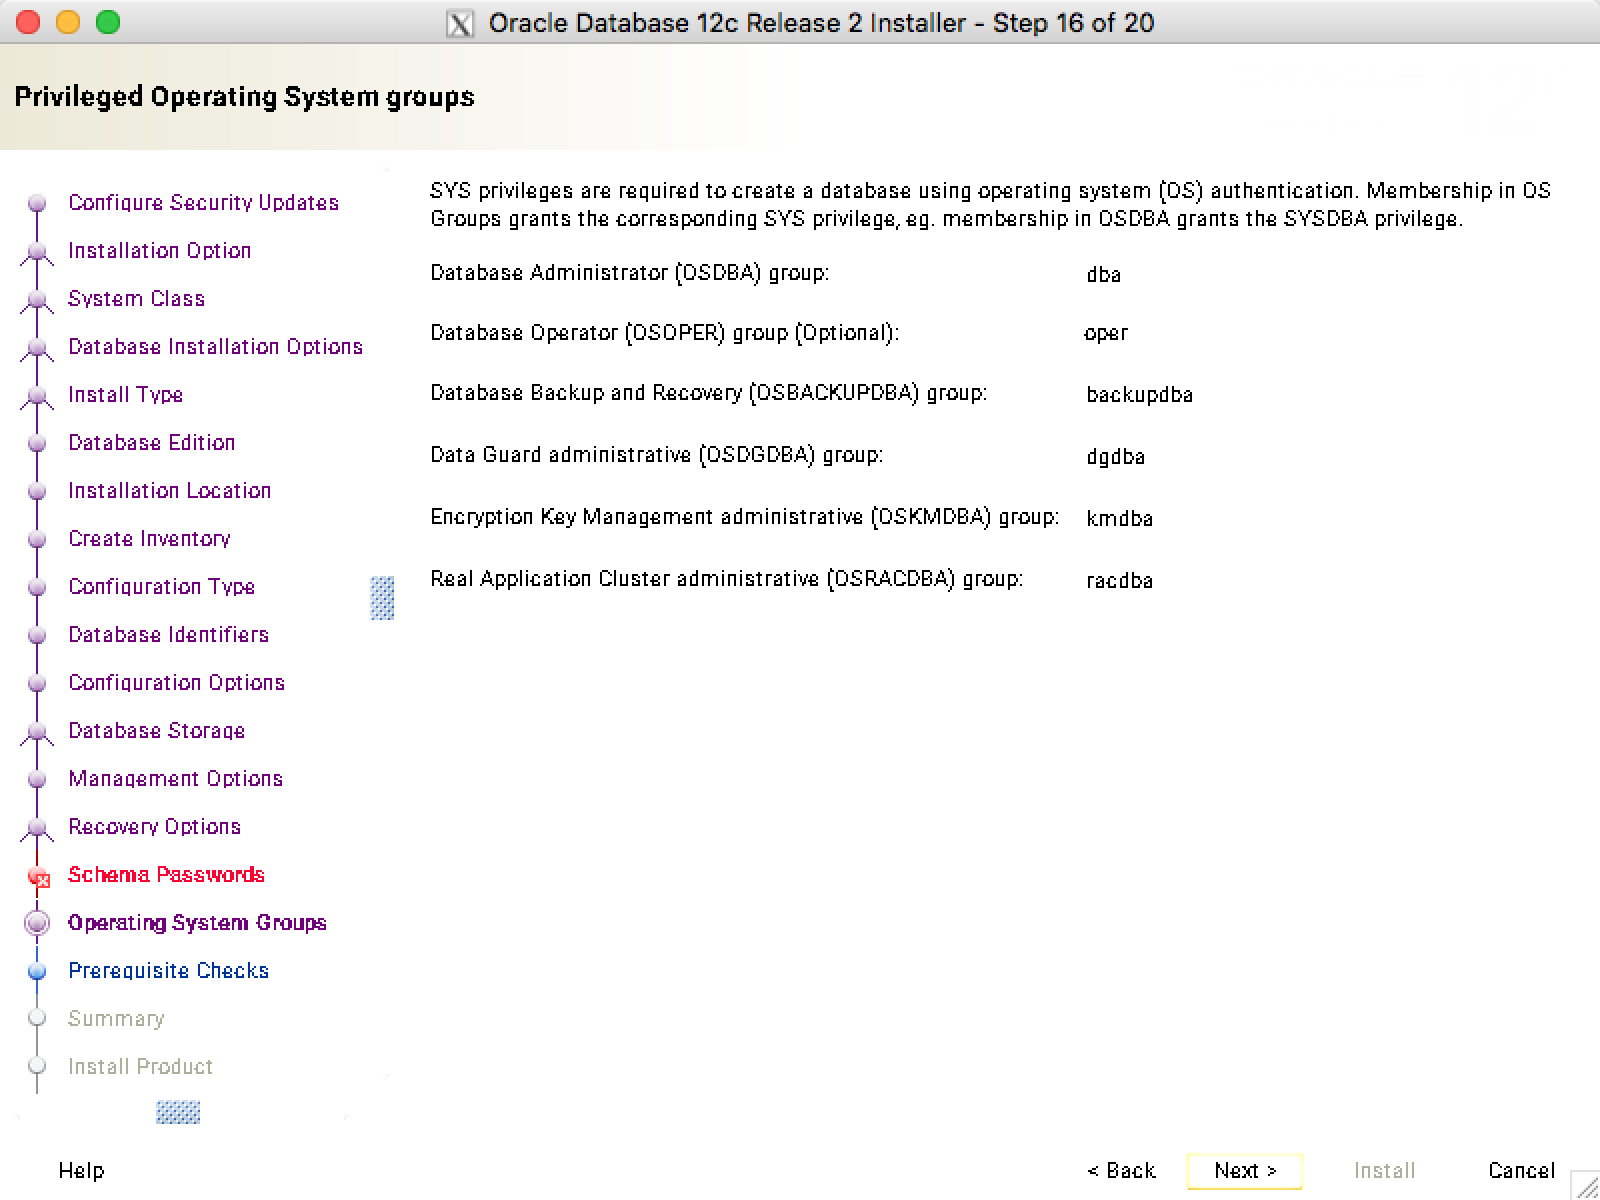
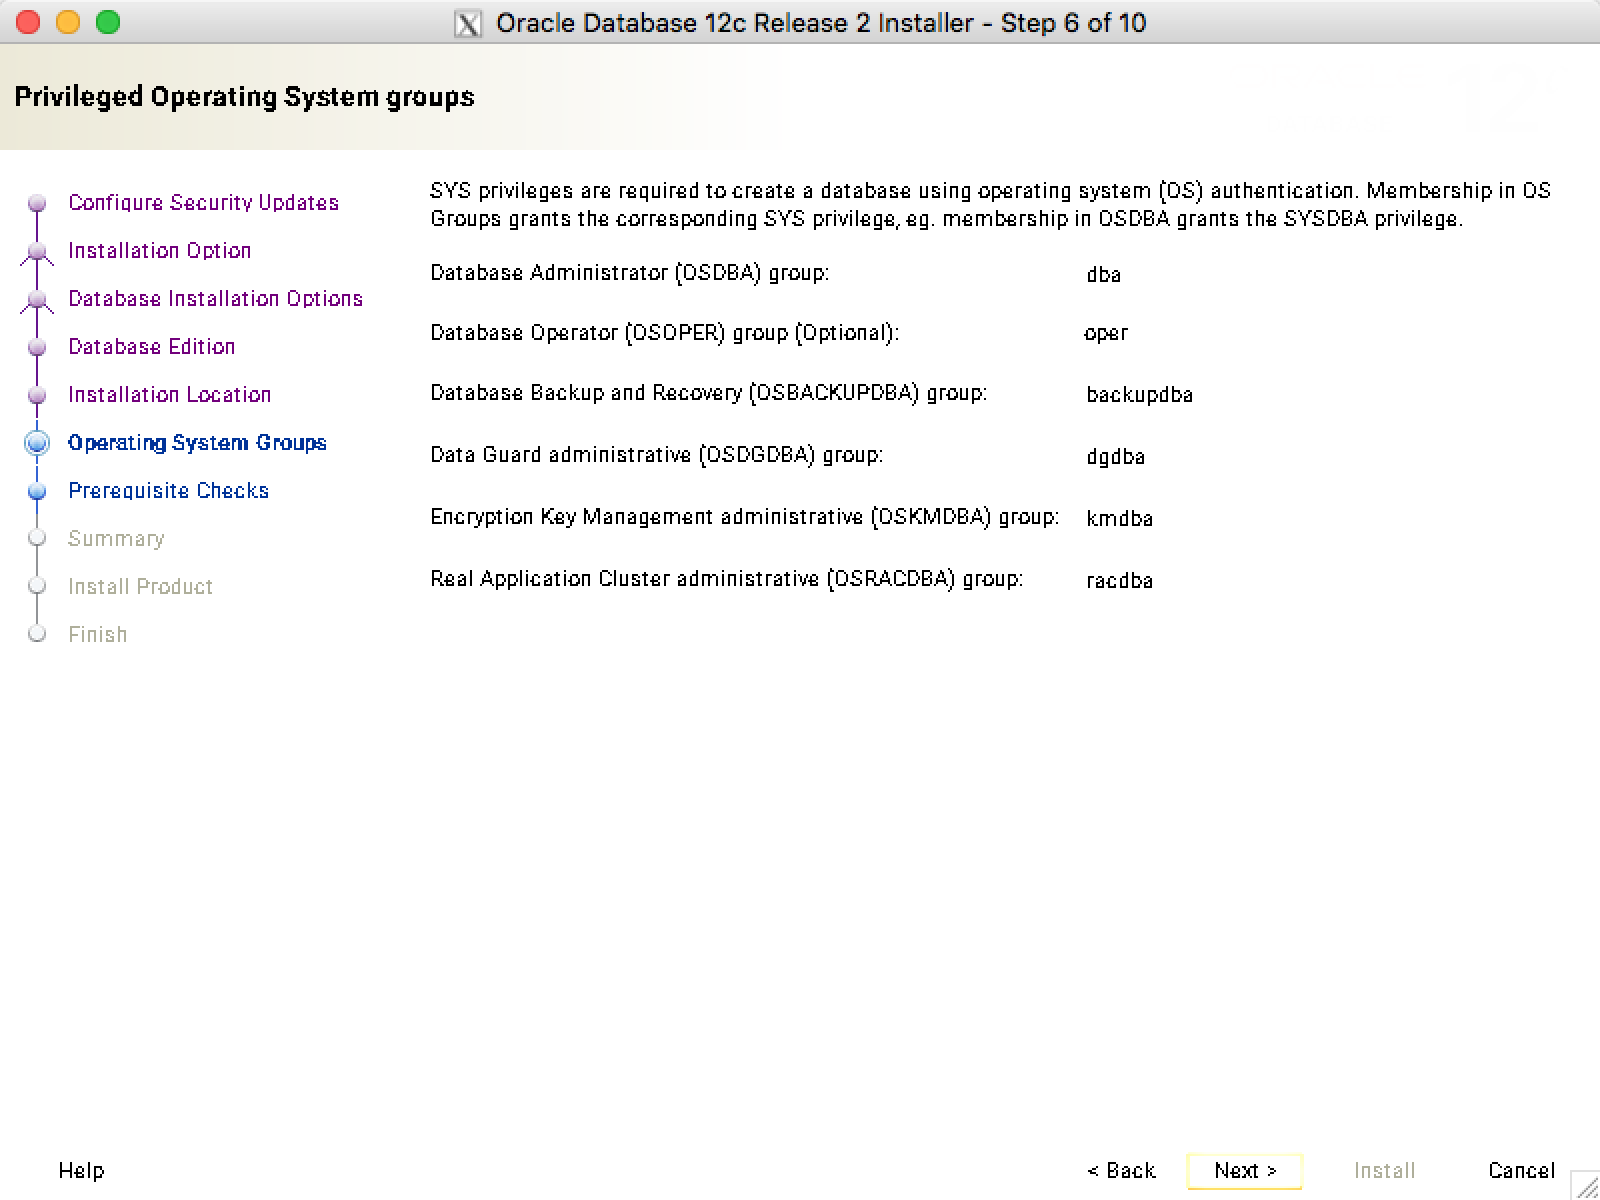
Oracle 12c installation note finished

diff --git a/source/_posts/install-oracle-12c-on-suse-linux.md b/source/_posts/install-oracle-12c-on-suse-linux.md
@@ -10,6 +10,8 @@ categories:
 ---
 本文记录根据[Oracle官方安装文档](https://docs.oracle.com/en/database/oracle/oracle-database/12.2/ladbi/index.html)，在`openSuSE Leap 15.0`上安装`Oracle Database 12c`(以下简称`Oracle 12c`)的过程。
 
+本文内容目前仅仅是一个大致的安装步骤的介绍，可能会在将来持续补充完善。
+
 <!-- more -->
 
 # 安装前准备
@@ -80,6 +82,14 @@ X11UseLocalhost yes
 ```
 
 并在操作机上安装X11客户端，如`macOS`中的`xquartz`。
+
+### 配置hosts文件
+
+编辑hosts文件，写入本机的IP地址和机器名：
+
+```
+192.168.2.12    boris-x200
+```
 
 ## 检查用户和组
 
@@ -177,6 +187,8 @@ $ sudo chown -R oracle:oinstall /opt/oracle
 
 ## 开始安装
 
+以下截图因为X11客户端的问题，图片色彩会有失真，还请读者见谅。
+
 ### 准备X11转发
 
 首先启动`X11`客户端并完成连接配置。
@@ -214,137 +226,217 @@ $ ./runInstaller
 # 监控日志输出并等待安装程序启动
 ```
 
-### 配置用来接收安全通知的邮箱地址
+### 配置邮箱地址
 
-第一步中可以配置一个用于接收安全通知的邮箱地址，如果不想接收，则可以留空。
+第一步中可以配置一个用于接收安全通知的邮箱地址，如果不需要则可以留空。
 
-![Begin installation](/images/install-oracle-12c-on-suse-linux/begin-installation.png)
+![Configure security updates](/images/install-oracle-12c-on-suse-linux/configure-security-updates.png)
 
 ### 选择安装模式
 
-接下来选择安装模式。安装程序提供了三种安装模式：`创建并配置数据库`、`仅安装数据库软件`、`升级已有数据库`。因为这次是全新安装，并希望在安装过程中完成必要的配置，所以选择`创建并配置数据库`。
+安装程序提供了三种安装模式：创建并配置数据库、仅安装数据库软件、升级已有数据库。我们这里选择仅安装数据库软件，配置将放到安装结束后进行。
 
-![Install options](/images/install-oracle-12c-on-suse-linux/install-option.png)
+![Installation option](/images/install-oracle-12c-on-suse-linux/installation-option.png)
 
-### 选择安装类型
+### 选择如何安装数据库
 
-然后是选择安装类型，我们这里选择`Server class`。
+安装程序提供了三种安装类型，我们这次将安装一个单实例数据库。
 
-![System class](/images/install-oracle-12c-on-suse-linux/system-class.png)
+![Database installation options](/images/install-oracle-12c-on-suse-linux/database-installation-options.png)
 
-### 选择单机或集群
+### 选择要安装的版本
 
-本例中我们将安装一个单机实例，所以选择`Single instance database installation`。
-
-![Install option](/images/install-oracle-12c-on-suse-linux/install-option.png)
-
-### 选择安装方法
-
-这一步提供了两种安装方法：
-
-- 标准安装：完整安装数据库，并使用默认配置
-- 高级安装：提供更详细的安装配置功能
-  
-本例中将使用高级安装，以尽可能地涵盖安装过程的各个步骤。
-
-![Install type](/images/install-oracle-12c-on-suse-linux/install-type.png)
-
-### 选择数据库版本
-
-安装程序提供了两种版本可选：企业版和普通版。我们这里选择企业版。
+安装程序提供了两种版本可供安装：企业版和标准版。我们这里选择安装企业版。
 
 ![Database edition](/images/install-oracle-12c-on-suse-linux/database-edition.png)
 
-### 指定安装位置
+### 设定安装位置
 
-`Oracle base`指定到`/opt/oracle/app/oracle`；
+这一步中需要指定安装过程中的两个路径：
 
-`Software location`指定到`/opt/oracle/app/oracle/product/12.2.0/dbhome_1`
+- Oracle base: 指定数据库软件及其相关配置文件所存放的位置
+- Software location: 指定数据库软件的安装位置
 
-![Install location](/images/install-oracle-12c-on-suse-linux/install-location.png)
+此处需要确认该路径是否与`Software location`的路径匹配。
 
-### 设定Inventory directory
+![Installation location](/images/install-oracle-12c-on-suse-linux/installation-location.png)
 
-由于是首次安装，需要指定`Inventory directory`来存放安装过程中的元数据文件。我们这里指定到`/opt/oracle/app/oraInventory`，并指定`oinstall`组对该目录有写权限。
+### 配置Oracle组所对应的操作系统用户组
 
-![Inventory directory](/images/install-oracle-12c-on-suse-linux/inventory-directory.png)
-
-### 设定数据库使用场景
-
-安装程序提供了两种使用场景，分别对应两种使用情景。我们这里选择面向通常使用场景的`General Purpose / Trasaction Processing`。
-
-![Configuration type](/images/install-oracle-12c-on-suse-linux/configuration-type.png)
-
-### 设定数据库标识符
-
-这一步保持默认，不做修改。
-
-![Database identifiers](/images/install-oracle-12c-on-suse-linux/database-identifiers.png)
-
-### 配置数据库属性
-
-这一步中分别需要配置分配给数据库的内存空间、数据库所使用的字符集、以及是否安装演示数据库。
-
-内存空间分配页面中，保持默认配置不变。
-
-![Configuration options - memory](/images/install-oracle-12c-on-suse-linux/conf-opts-memory.png)
-
-字符集保持默认不变，即使用Unicode。
-
-![Configuration options - character sets](/images/install-oracle-12c-on-suse-linux/conf-opts-charset.png)
-
-是否安装演示数据库页面根据实际需要决定是否勾选。
-
-![Configuration options - sample schemas](/images/install-oracle-12c-on-suse-linux/conf-opts-sample-schema.png)
-
-### 选择数据库存储方式
-
-这一步可以选择使用文件系统来储存数据，或者使用`Oracle Automatic Storage Management`。我们这里使用本地文件系统，并指定数据目录为`/opt/oracle/app/oracle/oradata`。
-
-![Database storage](/images/install-oracle-12c-on-suse-linux/database-storage.png)
-
-### 数据库管理选项
-
-这一步中可以将该实例注册到`Oracle Enterprise Manager (EM)`来实现集中管理。因为我们没有`EM`，所以留空。如果使用`EM`，则根据页面提示填写。
-
-![Management options](/images/install-oracle-12c-on-suse-linux/management-options.png)
-
-### 恢复功能配置
-
-这里可以指定是否启用恢复功能，以及如果启用，恢复数据将存放在哪里。存放恢复数据的分区至少需要`25480MB`的空间。
-
-![Recovery options](/images/install-oracle-12c-on-suse-linux/recovery-options.png)
-
-### 密码设定
-
-这里可以选择分别为`SYS`、`SYSTEM`、`PDBADMIN`设定不同的密码，也可以共用同一套密码。同时安装程序会检测密码是否符合Oracle的建议。
-
-![Schema passwords](/images/install-oracle-12c-on-suse-linux/recovery-options.png)
-
-### 配置各个角色对应的用户组
-
-这里用于指定数据库中各个角色分别对应于操作系统中的哪些用户组。这里保持默认。
+这一步可以指定各个Oracle组所对应的操作系统用户组，检查并确认与上文所配置的组匹配。
 
 ![Operating system groups](/images/install-oracle-12c-on-suse-linux/os-groups.png)
 
-### 配置总结
+### 总览
 
-在这一步可以对上面的配置最后做一次检查。确认无误后点击`Install`开始安装。
+这一步可以检查前面每一步骤的配置是否正确。如检查无误则可继续。
 
 ![Summary](/images/install-oracle-12c-on-suse-linux/summary.png)
 
 ### 开始安装
 
-然后就是漫长的安装过程。
+接下来就是等待安装完成。点击`Details`按钮可以看到目前详细的进度。
 
-![Installing](/images/install-oracle-12c-on-suse-linux/installing.png)
+![Install product](/images/install-oracle-12c-on-suse-linux/install-product.png)
 
-点击`Details`可以在弹窗中查看安装过程的详细信息。
+期间需要用户以`root`权限执行脚本，根据弹窗给出的提示操作即可。
 
-![Details](/images/install-oracle-12c-on-suse-linux/installing-details.png)
+![Run script as root](/images/install-oracle-12c-on-suse-linux/run-script-as-root.png)
 
-在安装过程中，可能需要用户以`root`身份执行一些脚本，跟随安装程序提示执行即可。
+### 完成安装
 
-![Run scripts as root](/images/install-oracle-12c-on-suse-linux/run-scripts-as-root.png)
+安装成功结束后点击`Close`关闭安装程序。
 
-等待全部安装步骤完成后，`Oracle 12c`安装完成。
+# 首次启动配置
+
+## 开放防火墙相关端口
+
+如果需要使数据库可以接受来自外部的连接，则需要开放监听器所指定的端口。
+
+## 创建数据库
+
+使用`dbca`命令启动数据库配置向导(DBCA)，跟随向导创建数据库。
+
+### 选择向导类型
+
+`DBCA`首先会询问本次要进行什么操作，选择`Create a database`来创建一个数据库。
+
+![DBCA - database operation](/images/install-oracle-12c-on-suse-linux/dbca-database-operation.png)
+
+### 选择如何配置数据库
+
+`DBCA`提供两种配置方式：标准模式和高级模式。我们这里选择高级模式。
+
+![DBCA - creation mode](/images/install-oracle-12c-on-suse-linux/dbca-creation-mode.png)
+
+### 选择部署模式
+
+因为我们是要创建一个单机实例，所以`Database type`中选择`Oracle Single Instance Database`。
+
+在下方的模版选择中，我们使用`General Purpose or Transaction Processing`。
+
+![DBCA - deployment type](/images/install-oracle-12c-on-suse-linux/dbca-deployment-type.png)
+
+### 设定数据库标识符
+
+`Global database name`根据提示，需要遵循`name.domain`这样的格式，所以此处按照`SID.主机名`的方式填写。
+
+`SID`按需修改，本例中设定为`orcldb`。
+
+`Create as Container Database`保持不变。
+
+![DBCA - database identification](/images/install-oracle-12c-on-suse-linux/dbca-database-identification.png)
+
+### 配置存储设定
+
+这一步如有定制的需要则选择自定义配置，否则选择套用选定模版。
+
+![DBCA - storage option](/images/install-oracle-12c-on-suse-linux/dbca-storage-option.png)
+
+### 配置快速恢复设定
+
+在这一步按需配置快速恢复的设定。
+
+![DBCA - fast recovery option](/images/install-oracle-12c-on-suse-linux/dbca-fast-recovery-option.png)
+
+### 网络配置
+
+这一步中我们需要新建一个监听器来监听数据库的连接。
+
+选择`Create a new listener`来创建一个新的监听器，监听器名自行设定，端口保持`1521`不变。
+
+**注意如果需要使数据库可以接受来自外部的连接，则需要配置防火墙放行监听器的端口。**
+
+![DBCA - network configuration](/images/install-oracle-12c-on-suse-linux/dbca-network-configuration.png)
+
+### Data Vault设定
+
+这一步根据需要来设定是否开启`Database Vault`和`Label Security`。
+
+![DBCA - data vault option](/images/install-oracle-12c-on-suse-linux/dbca-data-vault-option.png)
+
+### 资源和属性配置
+
+这一步用于配置内存、字符集等等属性。
+
+#### Memory
+
+`Memory`页用来选择内存管理方案。
+
+![DBCA - configuration options - memory](/images/install-oracle-12c-on-suse-linux/dbca-configuration-options-memory.png)
+
+#### Sizing
+
+`Sizing`页用于配置 **块大小** 和 **最大并发连接数** 。这里需要注意，并发连接数一定要根据实际应用场景调整至适合的数值。本例由于是个人的测试环境，所以`300`完全满足这个场景的需要。
+
+![DBCA - configuration options - sizing](/images/install-oracle-12c-on-suse-linux/dbca-configuration-options-sizing.png)
+
+#### Character sets
+
+`Character sets`页用于配置数据库所使用的字符集。数据库字符集选择`AL32UTF8`来使用`Unicode`。
+
+`National character set`即国际化字符集，按需选择`UTF-16`或者`UTF-8`；
+
+`Default language`即默认语言，根据实际使用场景选择；
+
+`Default territory`即默认地区，同样根据实际使用场景选择。
+
+![DBCA - configuration options - character sets](/images/install-oracle-12c-on-suse-linux/dbca-configuration-options-charset.png)
+
+#### Connection mode
+
+`Connection mode`页配置该实例是以独立服务器模式运行还是以共享服务器模式运行。本例中是独立服务器模式。
+
+![DBCA - configuration options - connection mode](/images/install-oracle-12c-on-suse-linux/dbca-configuration-options-connmode.png)
+
+#### Sample schemas
+
+`Sample schemas`页可以选择是否安装演示数据库。
+
+![DBCA - configuration options - sample schemas](/images/install-oracle-12c-on-suse-linux/dbca-configuration-options-sample-schemas.png)
+
+全部完成后继续
+
+### 管理选项
+
+`Management options`中可以配置是否启用`Enterprise Manager`(EM)，以及可以注册到已有的`EM cloud control`中。
+
+![DBCA - management options](/images/install-oracle-12c-on-suse-linux/dbca-management-options.png)
+
+### 用户密码
+
+`User credentials`用于配置特权用户的密码，可以为`SYS`，`SYSTEM`，`PDBADMIN`分别指定密码，也可以为其指定统一的密码。
+
+![DBCA - user credentials](/images/install-oracle-12c-on-suse-linux/dbca-user-credentials.png)
+
+### 数据库创建配置
+
+`Creation option`中可以配置数据库创建过程中以及创建结束后的操作。
+
+- `Create database`勾选后即可创建这个数据库。如果需要在创建结束后运行SQL脚本，则可以在`Post DB creation scripts`中填写各个脚本的路径，配置程序会按照先后顺序执行。
+- `Save as a database template`勾选后，将会根据本次向导所设定的值，创建一个数据库模版。
+- `Generate database creation scripts`勾选后，将会根据本次向导所设定的值，生成一个数据库创建脚本。以后使用此脚本即可创建出一个一模一样的数据库。
+
+![DBCA - creation option](/images/install-oracle-12c-on-suse-linux/dbca-creation-option.png)
+
+### 总览
+
+这一步可以最后回顾前面步骤中所设定的值。如确认无误即可继续。
+
+### 开始创建
+
+在`Progress page`中可以看到当前数据库创建的进度。耐心等待数据库创建完成。
+
+![DBCA - progress page](/images/install-oracle-12c-on-suse-linux/dbca-progress-page.png)
+
+### 创建成功
+
+在创建成功后，在最后一页会再次显示一些关键的连接信息。
+
+![DBCA - finish](/images/install-oracle-12c-on-suse-linux/dbca-finish.png)
+
+# 检查数据库连通性
+
+打开适用于Oracle数据库的连接工具，比如`Oracle SQL Developer`，新建连接并填写连接信息，点击`Test`，如果`Status`为`Success`则说明以上配置全部成功，可以开始使用。
+
+![Testing connection](/images/install-oracle-12c-on-suse-linux/testing-connection.png)

diff --git a/source/_posts/macos-install-x11-client.md b/source/_posts/macos-install-x11-client.md
@@ -1,0 +1,42 @@
+---
+title: 在macOS中通过SSH进行X11转发
+date: 2018-08-17 17:31:48
+tags:
+- XQuartz
+- X11
+categories: [工具, SSH]
+---
+本文记录如何在macOS中安装X11客户端，并通过SSH进行X11转发。
+
+<!-- more -->
+
+# 安装X11客户端
+
+在macOS中，可以使用`XQuartz`作为X11客户端。可以到[XQuartz Releases](https://www.xquartz.org/releases/)下载安装包手动安装，也可使用`Homebrew`安装。
+
+`Homebrew`安装命令如下：
+
+```bash
+$ brew cask install xquartz
+```
+
+注意安装期间需要提供管理员密码以完成安装。安装完成之后需要完全退出并重启终端模拟器。
+
+# 检查远程服务器配置
+
+编辑`/etc/ssh/sshd_config`，设定如下条目：
+
+```
+X11Forwarding yes
+X11DisplayOffset 10
+```
+
+然后重启`sshd`使配置生效：
+
+```bash
+sudo systemctl restart sshd
+```
+
+# 转发远程X11程序
+
+使用`ssh -X`连接到远程服务器，执行任意X11程序，然后程序的窗口就会在本机显示。
